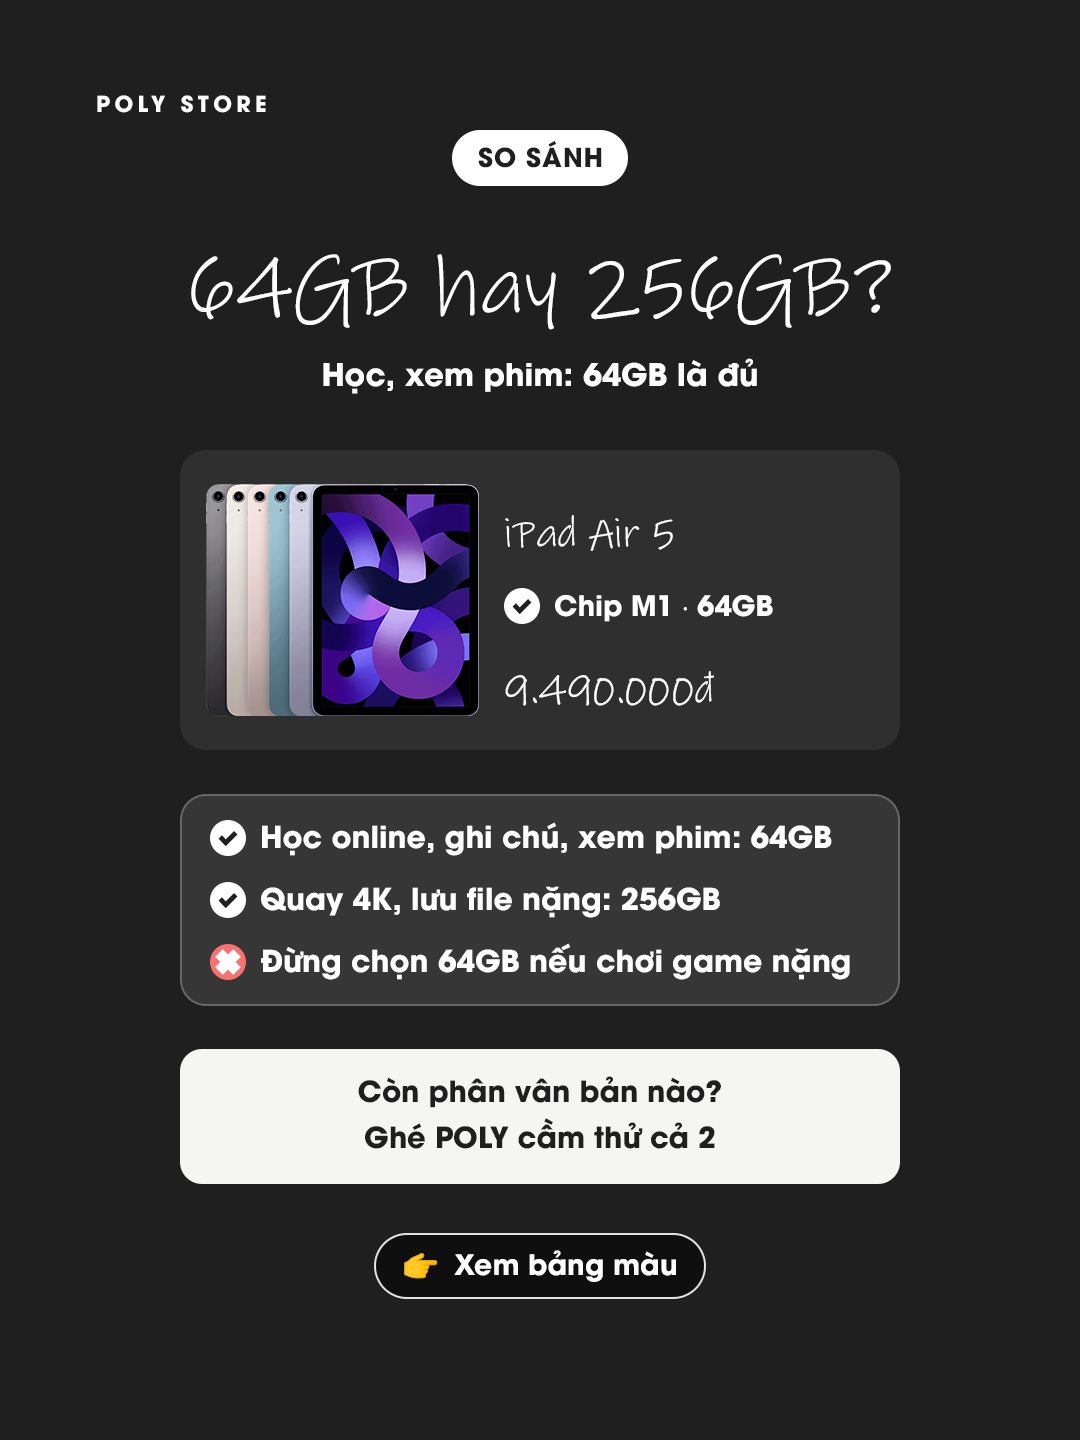
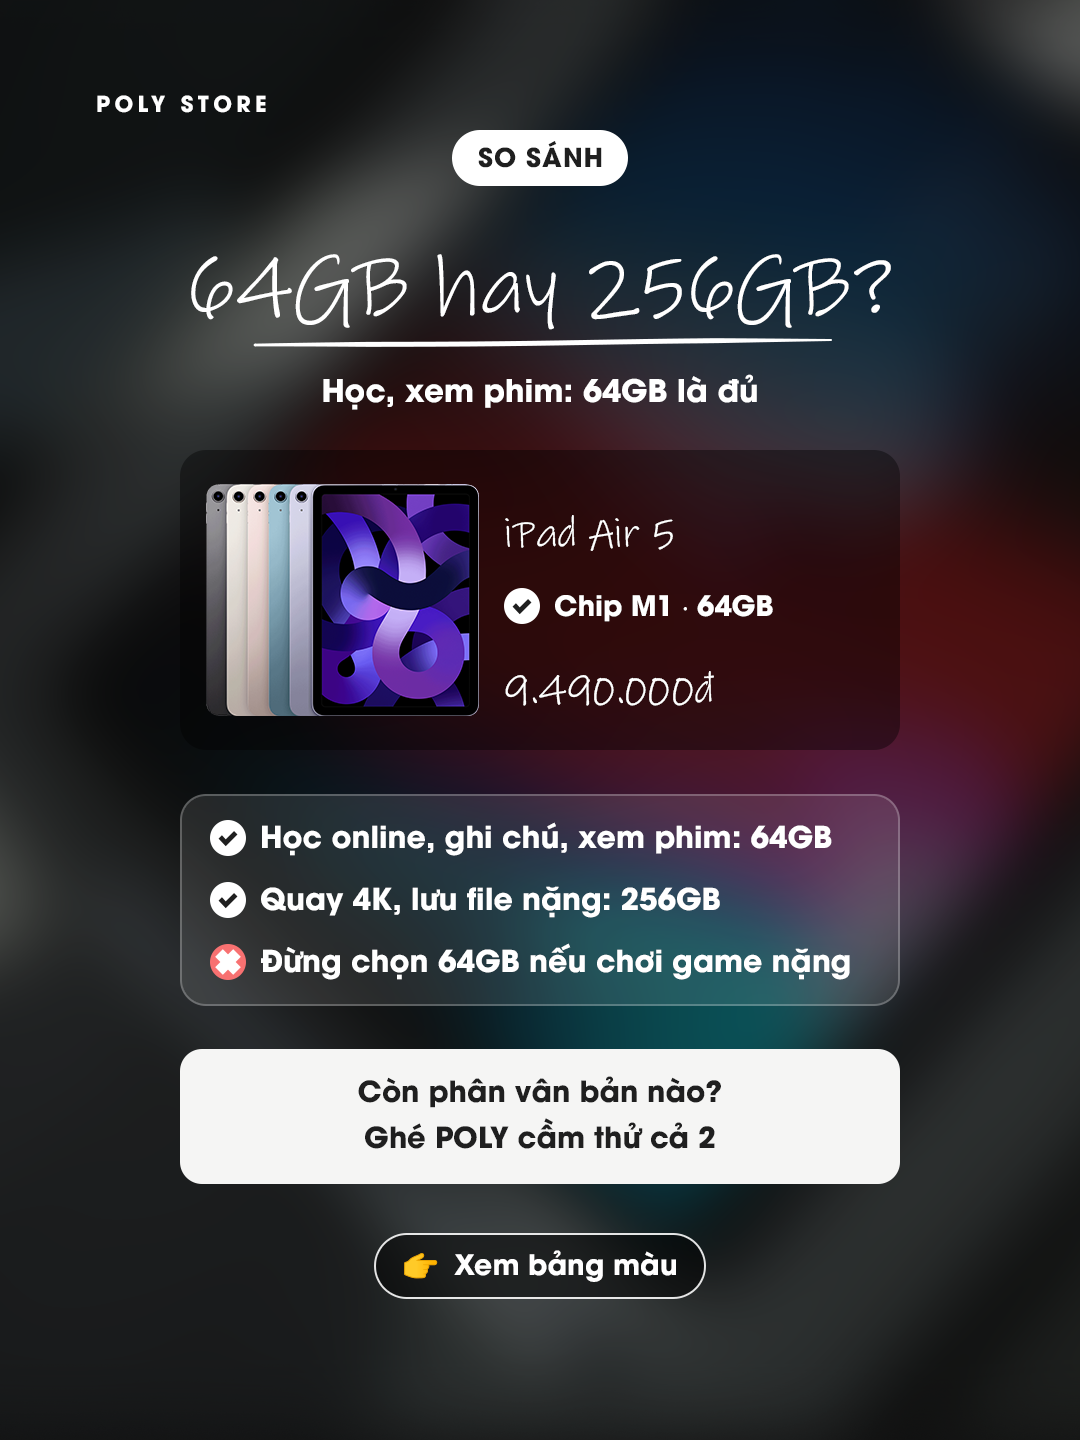
Theme Chú thích tay: trang trong có ảnh thì làm mờ ảnh, không có thì phông xám quầng sáng + hạt giấy; gạch chân vẽ tay dưới tiêu đề (fen 14/11 "nền trơn quá xấu")
Claude-Session: https://claude.ai/code/session_01HwhZ4uVD6UPAhautVwWPA2

diff --git a/theme-ps/anh-that-chu-thich/theme.jsx b/theme-ps/anh-that-chu-thich/theme.jsx
@@ -5,12 +5,12 @@ var THEME = {
  "kieu": "ảnh thật",
  "kenh": "",
  "ve_tay": true,
- "mo_ta": "Theo ảnh mẫu fen gửi 14/11 (iPad Pro M5 + phím + Pencil + sạc): ảnh thật món đồ, chữ viết tay trắng, mũi tên cong vẽ tay chỉ từng món, giá 2 gạch chân, viền quanh món như cắt dán. Bìa biaChuThich (tiêu đề viết tay + ảnh có chú thích); trang có ảnh món đồ dùng anhChuThich (mục Chú thích vẽ tay trong luật theme); trang chữ: nền than phẳng, tiêu đề viết tay, thân chữ không chân. Trắng trên than, không bóng, không trang trí.",
- "nen": "1F1F1F",
- "nen2": "1F1F1F",
- "the": "FFFFFF",
+ "mo_ta": "Theo ảnh mẫu fen gửi 14/11 (iPad Pro M5 + phím + Pencil + sạc): ảnh thật món đồ, chữ viết tay trắng, mũi tên cong vẽ tay chỉ từng món, giá 2 gạch chân, viền quanh món như cắt dán. Bìa biaChuThich (tiêu đề viết tay + ảnh có chú thích); trang có ảnh món đồ dùng anhChuThich (mục Chú thích vẽ tay trong luật theme). Trang chữ: gọi bgPhoto ảnh của bài thì ảnh đó làm mờ phủ tối, không gọi thì phông xám có quầng sáng + hạt giấy (không bao giờ nền trơn); tiêu đề viết tay có gạch chân vẽ tay; thẻ tối trong. Không bóng, không trang trí thêm.",
+ "nen": "131313",
+ "nen2": "131313",
+ "the": "000000",
  "the_kieu": "toi",
- "the_op": 7,
+ "the_op": 40,
  "nhan": "2B2B2B",
  "nhan_dam": "1F1F1F",
  "nhan_nhat": "FFFFFF",
@@ -135,8 +135,36 @@ var THEME = {
   ],
   "moc": "Xem bảng màu",
   "hoi": "Bạn chọn\rmàu nào?",
-  "nen": []
- }
+  "nen": [
+   null,
+   [
+    "unsplash-ipad-pencil-ban-toi-gYVNvRygCUw.jpg",
+    2000,
+    500,
+    0,
+    1070
+   ],
+   null
+  ]
+ },
+ "nen_kieu": "kinh",
+ "dom": [],
+ "toa": [
+  [
+   "6B6B6B",
+   760,
+   190,
+   760,
+   600,
+   340,
+   85
+  ]
+ ],
+ "hat_nen": 9,
+ "hat_op": 45,
+ "anh_mau": 52,
+ "anh_mo": 34,
+ "anh_toi": 30
 };
 // ===================================================================================
 // THEME PHOTOSHOP (kho chung app Poly Dung Bai, fen 12/11/2026 "thiet ke template kho chung bang photoshop", "dung 3d qua")
@@ -932,3 +960,28 @@ function biaChuThich(o) {
   RUN += "   bia chu thich: tieu de " + (64) + "-" + Math.round(y + dy) + "\n";
   return ls;
 }
+
+// ---------- nen + gach chan tieu de trang trong (fen 14/11 17h54 "phan theme nay nen tron qua xau") ----------
+// Nen "phong chup": quang sang mo (THEME.toa, ve trong themeNen goc) nhu phong xam trong anh mau + hat giay nhe (THEME.hat_nen = do hat, hat_op = do dam).
+var TAY_NEN0 = themeNen;
+themeNen = function () {
+  TAY_NEN0();
+  if (THEME.hat_nen) {
+    var G = rect(0, 0, W, H, 0, "808080", "Hạt nền");
+    themeHat(G, THEME.hat_nen);
+    G.blendMode = BlendMode.OVERLAY; G.opacity = THEME.hat_op || 40;
+  }
+};
+// tieu de trang noi dung (headC) co 1 gach chan ve tay o giua, nhu gach gia o bia. Sat phu de qua thi bo.
+var TAY_HEADC0 = headC;
+headC = function (n, bg, pillTxt, t, sub, op, blur) {
+  var d = TAY_HEADC0(n, bg, pillTxt, t, sub, op, blur);
+  if (THEME.tay_gach_tieu === false) return d;
+  try {
+    var T = d.artLayers.getByName("Tiêu đề"), q = bb(T), y = q[3] + 12, S = null;
+    try { S = d.artLayers.getByName("Phụ đề"); } catch (e) {}
+    if (S) { var qs = bb(S), gap = qs[1] - q[3]; if (gap < 44) S.translate(0, Math.min(30, 44 - gap)); }   // day phu de xuong cho gach chan (than bai bat dau tu 450)
+    var w = q[2] - q[0]; tayGach(q[0] + w * 0.1, q[2] - w * 0.1, y, 5, THEME.tay_mau || "FFFFFF", "Tiêu đề - gạch chân", true);
+  } catch (e2) { RUN += "   gach chan tieu de: " + e2.message + "\n"; }
+  return d;
+};

diff --git a/theme-ps/_ve-tay.jsx b/theme-ps/_ve-tay.jsx
@@ -206,3 +206,28 @@ function biaChuThich(o) {
   RUN += "   bia chu thich: tieu de " + (64) + "-" + Math.round(y + dy) + "\n";
   return ls;
 }
+
+// ---------- nen + gach chan tieu de trang trong (fen 14/11 17h54 "phan theme nay nen tron qua xau") ----------
+// Nen "phong chup": quang sang mo (THEME.toa, ve trong themeNen goc) nhu phong xam trong anh mau + hat giay nhe (THEME.hat_nen = do hat, hat_op = do dam).
+var TAY_NEN0 = themeNen;
+themeNen = function () {
+  TAY_NEN0();
+  if (THEME.hat_nen) {
+    var G = rect(0, 0, W, H, 0, "808080", "Hạt nền");
+    themeHat(G, THEME.hat_nen);
+    G.blendMode = BlendMode.OVERLAY; G.opacity = THEME.hat_op || 40;
+  }
+};
+// tieu de trang noi dung (headC) co 1 gach chan ve tay o giua, nhu gach gia o bia. Sat phu de qua thi bo.
+var TAY_HEADC0 = headC;
+headC = function (n, bg, pillTxt, t, sub, op, blur) {
+  var d = TAY_HEADC0(n, bg, pillTxt, t, sub, op, blur);
+  if (THEME.tay_gach_tieu === false) return d;
+  try {
+    var T = d.artLayers.getByName("Tiêu đề"), q = bb(T), y = q[3] + 12, S = null;
+    try { S = d.artLayers.getByName("Phụ đề"); } catch (e) {}
+    if (S) { var qs = bb(S), gap = qs[1] - q[3]; if (gap < 44) S.translate(0, Math.min(30, 44 - gap)); }   // day phu de xuong cho gach chan (than bai bat dau tu 450)
+    var w = q[2] - q[0]; tayGach(q[0] + w * 0.1, q[2] - w * 0.1, y, 5, THEME.tay_mau || "FFFFFF", "Tiêu đề - gạch chân", true);
+  } catch (e2) { RUN += "   gach chan tieu de: " + e2.message + "\n"; }
+  return d;
+};

diff --git a/PROJECT.md b/PROJECT.md
@@ -110,6 +110,7 @@ Không dùng lại:
 - [ ] Agent bắt lỗi app định kỳ theo checklist. Lần 18h04 bị dừng khi fen gửi tin chen ngang (Claude báo nhầm là đang chạy); chạy lại 19h20 trên bản chụp `snap-1920`.
 
 ## 7. Nhật ký
+- 14/11 18h10: fen 17h54 "phần theme này nền trơn quá xấu" (trang trong theme Chú thích tay) → dựng thử 2 nền trên Photoshop máy shop (A phông xám: quầng sáng `toa` 6B6B6B + hạt giấy overlay; B ảnh thật của bài làm mờ phủ tối), fen chọn "Cả 2: có ảnh thì B, không thì A": theme.json `nen_kieu: kinh`, `dom: []`, `toa`, `hat_nen` 9 / `hat_op` 45, thẻ đen trong 40%. `_ve-tay.jsx` thêm: bọc `themeNen` (lớp "Hạt nền" 808080 + Add Noise, overlay) và bọc `headC` (gạch chân vẽ tay dưới tiêu đề, phụ đề sát quá thì đẩy xuống ≤ 30px). Ảnh xem trước 2 (có ảnh) / 3 (không ảnh) dựng lại; chép máy shop so byte khớp.
 - 14/11 15h40: fen 15h24 gửi lại ảnh thử 2 trang + "cái này làm theme riêng đi không áp dụng tất cả" → tách chú thích vẽ tay khỏi động cơ chung: `_dong-co.jsx` trả về bản 873a160, phần vẽ tay sang `theme-ps/_ve-tay.jsx`, `tao.py` chỉ nối file này vào theme có `"ve_tay": true` (11 theme cũ: theme.jsx giống hệt bản 873a160, không còn anhChuThich / FTAY). Theme mới **`anh-that-chu-thich` "Ảnh thật · Chú thích tay"** (kho có 12): nền than 1F1F1F phẳng, tiêu đề + tên máy + giá chữ viết tay Ink Free trắng (`font_tieu_de`, `co_tieu_de` 0.9), thân chữ UTMAvoBold, thẻ trắng trong 7%, nhãn / dấu tích trắng chữ than, `tay_vien: true`; bìa mới `biaChuThich({t1, t2, nho, vi_tri, + khoá anhChuThich})` = "POLY STORE" + tiêu đề viết tay (t2 có 1 gạch chân vẽ tay) + ảnh có chú thích; `mo_ta` nói rõ biaChuThich / anhChuThich nên lệnh dựng của theme này mới nhắc tới. Luật `luat-theme.md`: mục "Chú thích vẽ tay: CHỈ theme Ảnh thật · Chú thích tay" (theme khác không gọi, brief ghi chú thích vẽ tay thì báo fen chọn theme này). `xem-mau.part.jsx` gọi `bia_ct`. Ảnh xem trước dựng trên Photoshop máy shop (bìa "iPad Air 5 chọn màu nào?" ảnh Ads Air 5.jpg thu 0.8, 3 chú thích Tím / Xanh dương / Xám có viền quanh máy; dựng 3 lần để chữ không đè viền), máy mẫu may.png = apple-ipad-air-5-goc.png. Chép máy shop: _dong-co, _ve-tay, tao.py, xem-mau, luat, 12 theme.jsx, theme.json, may.png, HUONG-DAN, so từng byte khớp; /api/theme-ps máy shop 12 theme, theme mới đủ 3 ảnh (không cần khởi động lại). Test: themeps.py 55 (chỉ 1 theme ve_tay, 11 theme không có hàm vẽ tay, lệnh dựng theme mới có biaChuThich), themepsui.js 33 (12 theme).
 - 14/11 14h05: fen 13h48 gửi ảnh mẫu (iPad Pro M5 11" + phím Astromazing + Pencil USB-C + sạc trong hộp, chữ viết tay trắng, mũi tên cong, giá gạch chân, viền trắng quanh món) + "có làm dc mấy cái chú thích vẽ như hình này cho theme không" → động cơ `_dong-co.jsx` thêm **chú thích vẽ tay** cho mọi theme Photoshop: `anhChuThich(o)` (ảnh thật phủ kín hoặc `thu` < 1 thu nhỏ: nền lấy màu góc ảnh bằng colorSampler, mép ảnh mờ dần bằng mặt nạ từ vùng chọn feather 40; `vien` = Select Subject `autoCutout` → expand 16 → smooth 24 → stroke 5px; `toi`; toạ độ ≤ 1 là tỉ lệ trên ảnh gốc, > 1 là px trang), `chuThich(ds, o)` (trang đã có ảnh, px), `chuThich1` (chữ `FTAY` + "giá: " + giá, căn trái / phải / giữa, gom nhóm "Chú thích N" rồi nghiêng −2…−4°, mũi tên ra từ cạnh gần món nhất), nét vẽ tay = vùng chọn đa giác dọc đường cong bậc 2 (thon 2 đầu, rung nhẹ, đầu tròn) tô 1 lớp thường: `tayNet`, `tayVe`, `tayMuiTen` (mặc định ra ngang, cắm dọc vào món; `huong: "doc"`, `cong`), `tayGach` (2 gạch chân), `tayVienMon`. Font tay `FTAY`: Ink Free → Segoe Print → UTM Duepuntozero → SVN-KG Ten Thousand Reasons (KG số 1 giống chữ l; liệt kê 572 font máy shop qua jsx, cả 4 đủ dấu ư ơ); theme đổi bằng `font_tay`, `tay_mau`, `tay_co`, `tay_vien`. Lỗi gặp: gạch chân vẽ trước khi dời cụm chữ bị cắt ngoài trang (giờ dời rồi mới vẽ); mũi tên cắm ngang chỉ dọc mép máy (đổi mặc định cắm dọc); "giá:" dính số (cách 0.3 cỡ chữ). Ảnh thử dựng trên Photoshop máy shop (`_tam/chu-thich/`: 3 iPad Air 5 nền đen chữ trắng có viền, 2 iPad Pro M2 nền trắng chữ đen căn phải, bảng so font). Luật trong `luat-theme.md` (mục "Chú thích vẽ tay": ≤ 4 cái / trang, ≤ 3 dòng, không đè món / nhau, giá đúng bài), HUONG-DAN. Chép máy shop: _dong-co, luat, 11 theme.jsx so từng byte khớp (không cần khởi động lại app). Test: themeps.py 51.
 - 14/11 13h45: fen 13h30 gửi lại ảnh mẫu TikTok "iPhone lag?" + "xoay quanh style này làm 3 theme cho photoshop" → 3 theme Photoshop mới (kho có 11): **`anh-that-day-toi` "Ảnh thật · Đáy tối"** (bìa biaAnhThat: ảnh phủ kín, `bia_day: [900, 88]` lớp tô chuyển sắc đen → trong ở đáy, chữ căn trái góc dưới `bia_can: "trai"`, t1 trắng + t2 vàng, nho nghiêng trắng; ảnh xem trước "Hand Holding Gray iPad at Counter.png"), **`anh-that-nen-sang` "Ảnh thật · Nền sáng"** (bìa `biaAnhKhung`: nền kem F5F2EB, ảnh trong ô bo góc 60/150–860, tiêu đề UTM-Impact đen căn trái + vạch vàng nửa dưới dòng cuối, nho nghiêng xám; trang trong `trang_tri: "khung"` = ảnh mờ trong khung kem le 36/62; ảnh "unsplash-ve-ipad-coc-10tr.jpg"), **`anh-that-chu-nghieng` "Ảnh thật · Chữ nghiêng"** (bìa tạp chí: `tren` "MẸO IPAD" chữ hẹp vàng giãn 260, tiêu đề UTMTimesItalic trắng 150, nho UTMAvoBold trắng, tối 38%; tiêu đề trang trong cũng chữ nghiêng; ảnh "unsplash-ipad-pencil-ban-toi"). Động cơ `_dong-co.jsx`: `themeBoGoc`, `themeKhungSang`, `themeKhungNen`, `themeDayToi` (Gradient Fill contentLayer qua Action Manager, lỗi thì 24 dải), `biaAnhKhung`, `biaAnhThat` thêm `tren` / căn trái / đáy tối, `F.K` (`font_kicker`); `xem-mau.part.jsx` gọi `bia_khung`. Chép máy shop (động cơ, xem-mau, luat, 11 theme.jsx, 3 theme.json, 3 may.png) so từng byte khớp; ảnh xem trước dựng trên Photoshop máy shop 13h39–13h40 (3 jsx trong `_tu-chay`, log XONG, gradient chạy được), chép về repo; /api/theme-ps 11 theme đủ 3 ảnh, kiểu "ảnh thật". Test: themeps.py 39, themepsui.js 33 (11 theme).
